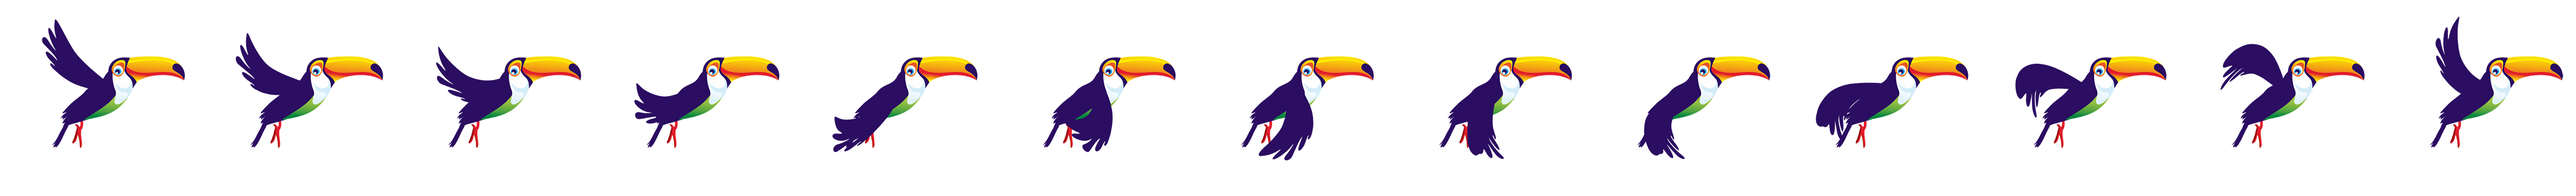
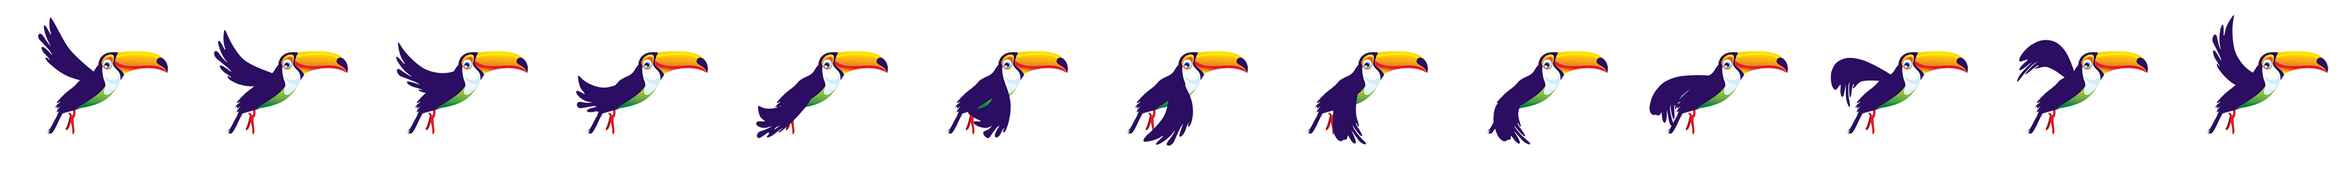
...

diff --git a/js/choco.js b/js/choco.js
@@ -504,7 +504,7 @@ Choco.startLevel = function () {
 
   Choco.player = new Kemist.Entity(
           [470, 200],
-          new Kemist.Sprite('images/toucan2.png', [0, 0], [342, 339], 16, [0,1,2,3,4,5,6,7,8,9,10,11,12]),
+          new Kemist.Sprite('images/toucan2.png', [0, 0], [310, 308], 16, [0,1,2,3,4,5,6,7,8,9,10,11,12]),
           {type: 'player'}
   );
 
